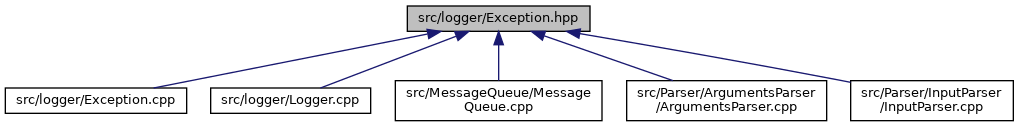
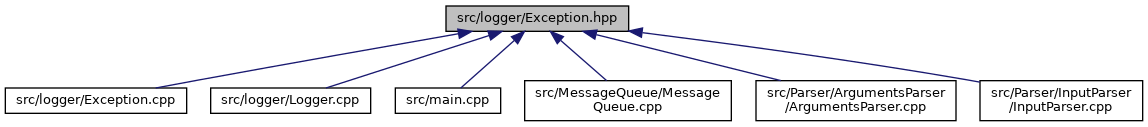
Deploying to gh-pages from @ Cavonstavant/PLAZAAAAAAAAAAAAAAAAAAAAAAA@f2cbfda0a3b28097e5984dd33de7640b9279c598 🚀

diff --git a/main_8cpp_source.html b/main_8cpp_source.html
@@ -95,31 +95,39 @@ $(document).ready(function(){initNavTree('main_8cpp_source.html',''); initResiza
 <div class="line"><a name="l00006"></a><span class="lineno">    6</span>&#160;<span class="comment">*/</span></div>
 <div class="line"><a name="l00007"></a><span class="lineno">    7</span>&#160; </div>
 <div class="line"><a name="l00008"></a><span class="lineno">    8</span>&#160;<span class="preprocessor">#include &quot;<a class="code" href="_arguments_parser_8hpp.html">ArgumentsParser.hpp</a>&quot;</span></div>
-<div class="line"><a name="l00009"></a><span class="lineno">    9</span>&#160;<span class="preprocessor">#include &quot;<a class="code" href="_message_queue_8hpp.html">MessageQueue/MessageQueue.hpp</a>&quot;</span></div>
-<div class="line"><a name="l00010"></a><span class="lineno">   10</span>&#160;<span class="preprocessor">#include &quot;<a class="code" href="_plazza_8hpp.html">Plazza.hpp</a>&quot;</span></div>
-<div class="line"><a name="l00011"></a><span class="lineno">   11</span>&#160;<span class="preprocessor">#include &lt;iostream&gt;</span></div>
-<div class="line"><a name="l00012"></a><span class="lineno">   12</span>&#160;<span class="preprocessor">#include &lt;string&gt;</span></div>
-<div class="line"><a name="l00013"></a><span class="lineno">   13</span>&#160; </div>
-<div class="line"><a name="l00014"></a><span class="lineno"><a class="line" href="main_8cpp.html#a0c99d968a34e803d378692bde2e3f18f">   14</a></span>&#160;<span class="keywordtype">int</span> <a class="code" href="main_8cpp.html#a0c99d968a34e803d378692bde2e3f18f">main</a>(<span class="keywordtype">int</span> ac, <span class="keywordtype">char</span> **av)</div>
-<div class="line"><a name="l00015"></a><span class="lineno">   15</span>&#160;{</div>
-<div class="line"><a name="l00016"></a><span class="lineno">   16</span>&#160;    <a class="code" href="classplazza_1_1_arguments_parser.html">plazza::ArgumentsParser</a> args(ac - 1, av + 1);</div>
-<div class="line"><a name="l00017"></a><span class="lineno">   17</span>&#160; </div>
-<div class="line"><a name="l00018"></a><span class="lineno">   18</span>&#160;    args.<a class="code" href="classplazza_1_1_arguments_parser.html#ab4f7c6395927475327259187040f270d">processArguments</a>();</div>
-<div class="line"><a name="l00019"></a><span class="lineno">   19</span>&#160; </div>
-<div class="line"><a name="l00020"></a><span class="lineno">   20</span>&#160;    <a class="code" href="classplazza_1_1_core.html">plazza::Core</a> core(args.<a class="code" href="classplazza_1_1_arguments_parser.html#a4ffecd21d310576b3867d019b05c016d">getCookingTime</a>(), args.<a class="code" href="classplazza_1_1_arguments_parser.html#a526753b1dddd60803ef79ea0b1505dfc">getCookNumber</a>(), args.<a class="code" href="classplazza_1_1_arguments_parser.html#aeca612329e37ab2947f8a29fd8032e21">getRefillTime</a>());</div>
-<div class="line"><a name="l00021"></a><span class="lineno">   21</span>&#160; </div>
-<div class="line"><a name="l00022"></a><span class="lineno">   22</span>&#160;    core.<a class="code" href="classplazza_1_1_core.html#adcc93b561dfefacfe2bcbd60604ea7a6">run</a>();</div>
-<div class="line"><a name="l00023"></a><span class="lineno">   23</span>&#160; </div>
-<div class="line"><a name="l00024"></a><span class="lineno">   24</span>&#160;    <span class="keywordflow">return</span> 0;</div>
-<div class="line"><a name="l00025"></a><span class="lineno">   25</span>&#160;}</div>
+<div class="line"><a name="l00009"></a><span class="lineno">    9</span>&#160;<span class="preprocessor">#include &quot;<a class="code" href="_exception_8hpp.html">Exception.hpp</a>&quot;</span></div>
+<div class="line"><a name="l00010"></a><span class="lineno">   10</span>&#160;<span class="preprocessor">#include &quot;<a class="code" href="_message_queue_8hpp.html">MessageQueue/MessageQueue.hpp</a>&quot;</span></div>
+<div class="line"><a name="l00011"></a><span class="lineno">   11</span>&#160;<span class="preprocessor">#include &quot;<a class="code" href="_plazza_8hpp.html">Plazza.hpp</a>&quot;</span></div>
+<div class="line"><a name="l00012"></a><span class="lineno">   12</span>&#160;<span class="preprocessor">#include &lt;iostream&gt;</span></div>
+<div class="line"><a name="l00013"></a><span class="lineno">   13</span>&#160;<span class="preprocessor">#include &lt;string&gt;</span></div>
+<div class="line"><a name="l00014"></a><span class="lineno">   14</span>&#160; </div>
+<div class="line"><a name="l00015"></a><span class="lineno"><a class="line" href="main_8cpp.html#a0c99d968a34e803d378692bde2e3f18f">   15</a></span>&#160;<span class="keywordtype">int</span> <a class="code" href="main_8cpp.html#a0c99d968a34e803d378692bde2e3f18f">main</a>(<span class="keywordtype">int</span> ac, <span class="keywordtype">char</span> **av)</div>
+<div class="line"><a name="l00016"></a><span class="lineno">   16</span>&#160;{</div>
+<div class="line"><a name="l00017"></a><span class="lineno">   17</span>&#160;    <a class="code" href="classplazza_1_1_arguments_parser.html">plazza::ArgumentsParser</a> args(ac - 1, av + 1);</div>
+<div class="line"><a name="l00018"></a><span class="lineno">   18</span>&#160; </div>
+<div class="line"><a name="l00019"></a><span class="lineno">   19</span>&#160;    <span class="keywordflow">try</span> {</div>
+<div class="line"><a name="l00020"></a><span class="lineno">   20</span>&#160;        args.<a class="code" href="classplazza_1_1_arguments_parser.html#ab4f7c6395927475327259187040f270d">processArguments</a>();</div>
+<div class="line"><a name="l00021"></a><span class="lineno">   21</span>&#160;    } <span class="keywordflow">catch</span> (<span class="keyword">const</span> <a class="code" href="class_plazza_exception.html">PlazzaException</a> &amp;exc) {</div>
+<div class="line"><a name="l00022"></a><span class="lineno">   22</span>&#160;        std::cerr &lt;&lt; exc.<a class="code" href="class_plazza_exception.html#af42078485825da6b030af687e5990044">what</a>() &lt;&lt; std::endl;</div>
+<div class="line"><a name="l00023"></a><span class="lineno">   23</span>&#160;        <span class="keywordflow">return</span> 84;</div>
+<div class="line"><a name="l00024"></a><span class="lineno">   24</span>&#160;    }</div>
+<div class="line"><a name="l00025"></a><span class="lineno">   25</span>&#160;    <a class="code" href="classplazza_1_1_core.html">plazza::Core</a> core(args.<a class="code" href="classplazza_1_1_arguments_parser.html#a4ffecd21d310576b3867d019b05c016d">getCookingTime</a>(), args.<a class="code" href="classplazza_1_1_arguments_parser.html#a526753b1dddd60803ef79ea0b1505dfc">getCookNumber</a>(), args.<a class="code" href="classplazza_1_1_arguments_parser.html#aeca612329e37ab2947f8a29fd8032e21">getRefillTime</a>());</div>
+<div class="line"><a name="l00026"></a><span class="lineno">   26</span>&#160; </div>
+<div class="line"><a name="l00027"></a><span class="lineno">   27</span>&#160;    core.<a class="code" href="classplazza_1_1_core.html#adcc93b561dfefacfe2bcbd60604ea7a6">run</a>();</div>
+<div class="line"><a name="l00028"></a><span class="lineno">   28</span>&#160; </div>
+<div class="line"><a name="l00029"></a><span class="lineno">   29</span>&#160;    <span class="keywordflow">return</span> 0;</div>
+<div class="line"><a name="l00030"></a><span class="lineno">   30</span>&#160;}</div>
 </div><!-- fragment --></div><!-- contents -->
 </div><!-- doc-content -->
 <div class="ttc" id="a_plazza_8hpp_html"><div class="ttname"><a href="_plazza_8hpp.html">Plazza.hpp</a></div></div>
 <div class="ttc" id="aclassplazza_1_1_arguments_parser_html_aeca612329e37ab2947f8a29fd8032e21"><div class="ttname"><a href="classplazza_1_1_arguments_parser.html#aeca612329e37ab2947f8a29fd8032e21">plazza::ArgumentsParser::getRefillTime</a></div><div class="ttdeci">const size_t &amp; getRefillTime(void) const</div><div class="ttdoc">Get the time to refill the fridge for the Plazza.</div><div class="ttdef"><b>Definition:</b> <a href="_arguments_parser_8hpp_source.html#l00041">ArgumentsParser.hpp:41</a></div></div>
+<div class="ttc" id="aclass_plazza_exception_html"><div class="ttname"><a href="class_plazza_exception.html">PlazzaException</a></div><div class="ttdoc">Base exception class for all exceptions in the project.</div><div class="ttdef"><b>Definition:</b> <a href="_exception_8hpp_source.html#l00046">Exception.hpp:46</a></div></div>
+<div class="ttc" id="a_exception_8hpp_html"><div class="ttname"><a href="_exception_8hpp.html">Exception.hpp</a></div></div>
 <div class="ttc" id="aclassplazza_1_1_arguments_parser_html_a526753b1dddd60803ef79ea0b1505dfc"><div class="ttname"><a href="classplazza_1_1_arguments_parser.html#a526753b1dddd60803ef79ea0b1505dfc">plazza::ArgumentsParser::getCookNumber</a></div><div class="ttdeci">const size_t &amp; getCookNumber(void) const</div><div class="ttdoc">Get the cooking Time for the Plazza.</div><div class="ttdef"><b>Definition:</b> <a href="_arguments_parser_8hpp_source.html#l00035">ArgumentsParser.hpp:35</a></div></div>
 <div class="ttc" id="aclassplazza_1_1_core_html_adcc93b561dfefacfe2bcbd60604ea7a6"><div class="ttname"><a href="classplazza_1_1_core.html#adcc93b561dfefacfe2bcbd60604ea7a6">plazza::Core::run</a></div><div class="ttdeci">void run()</div><div class="ttdoc">Main function of the program.</div><div class="ttdef"><b>Definition:</b> <a href="_plazza_8cpp_source.html#l00021">Plazza.cpp:21</a></div></div>
+<div class="ttc" id="aclass_plazza_exception_html_af42078485825da6b030af687e5990044"><div class="ttname"><a href="class_plazza_exception.html#af42078485825da6b030af687e5990044">PlazzaException::what</a></div><div class="ttdeci">const char * what() const noexcept override</div><div class="ttdoc">returns the description of the exception</div><div class="ttdef"><b>Definition:</b> <a href="_exception_8cpp_source.html#l00027">Exception.cpp:27</a></div></div>
 <div class="ttc" id="aclassplazza_1_1_core_html"><div class="ttname"><a href="classplazza_1_1_core.html">plazza::Core</a></div><div class="ttdoc">Core Class containing the main loop of the program.</div><div class="ttdef"><b>Definition:</b> <a href="_plazza_8hpp_source.html#l00017">Plazza.hpp:17</a></div></div>
-<div class="ttc" id="amain_8cpp_html_a0c99d968a34e803d378692bde2e3f18f"><div class="ttname"><a href="main_8cpp.html#a0c99d968a34e803d378692bde2e3f18f">main</a></div><div class="ttdeci">int main(int ac, char **av)</div><div class="ttdef"><b>Definition:</b> <a href="main_8cpp_source.html#l00014">main.cpp:14</a></div></div>
+<div class="ttc" id="amain_8cpp_html_a0c99d968a34e803d378692bde2e3f18f"><div class="ttname"><a href="main_8cpp.html#a0c99d968a34e803d378692bde2e3f18f">main</a></div><div class="ttdeci">int main(int ac, char **av)</div><div class="ttdef"><b>Definition:</b> <a href="main_8cpp_source.html#l00015">main.cpp:15</a></div></div>
 <div class="ttc" id="aclassplazza_1_1_arguments_parser_html_ab4f7c6395927475327259187040f270d"><div class="ttname"><a href="classplazza_1_1_arguments_parser.html#ab4f7c6395927475327259187040f270d">plazza::ArgumentsParser::processArguments</a></div><div class="ttdeci">void processArguments()</div><div class="ttdoc">Process the arguments given in the char ** (transfers to the inherited member _arguments) by the cons...</div><div class="ttdef"><b>Definition:</b> <a href="_arguments_parser_8cpp_source.html#l00025">ArgumentsParser.cpp:25</a></div></div>
 <div class="ttc" id="aclassplazza_1_1_arguments_parser_html"><div class="ttname"><a href="classplazza_1_1_arguments_parser.html">plazza::ArgumentsParser</a></div><div class="ttdoc">ArgumentsParser class define functions for parsing received arguments.</div><div class="ttdef"><b>Definition:</b> <a href="_arguments_parser_8hpp_source.html#l00017">ArgumentsParser.hpp:17</a></div></div>
 <div class="ttc" id="aclassplazza_1_1_arguments_parser_html_a4ffecd21d310576b3867d019b05c016d"><div class="ttname"><a href="classplazza_1_1_arguments_parser.html#a4ffecd21d310576b3867d019b05c016d">plazza::ArgumentsParser::getCookingTime</a></div><div class="ttdeci">const size_t &amp; getCookingTime(void) const</div><div class="ttdoc">Get the cooking Time for the Plazza.</div><div class="ttdef"><b>Definition:</b> <a href="_arguments_parser_8hpp_source.html#l00029">ArgumentsParser.hpp:29</a></div></div>

diff --git a/main_8cpp.html b/main_8cpp.html
@@ -90,6 +90,7 @@ $(document).ready(function(){initNavTree('main_8cpp.html',''); initResizable(); 
 </div><!--header-->
 <div class="contents">
 <div class="textblock"><code>#include &quot;<a class="el" href="_arguments_parser_8hpp_source.html">ArgumentsParser.hpp</a>&quot;</code><br />
+<code>#include &quot;<a class="el" href="_exception_8hpp_source.html">Exception.hpp</a>&quot;</code><br />
 <code>#include &quot;<a class="el" href="_message_queue_8hpp_source.html">MessageQueue/MessageQueue.hpp</a>&quot;</code><br />
 <code>#include &quot;<a class="el" href="_plazza_8hpp_source.html">Plazza.hpp</a>&quot;</code><br />
 <code>#include &lt;iostream&gt;</code><br />
@@ -99,17 +100,20 @@ Include dependency graph for main.cpp:</div>
 <div class="dyncontent">
 <div class="center"><img src="main_8cpp__incl.png" border="0" usemap="#src_2main_8cpp" alt=""/></div>
 <map name="src_2main_8cpp" id="src_2main_8cpp">
-<area shape="rect" title=" " alt="" coords="315,5,421,32"/>
+<area shape="rect" title=" " alt="" coords="375,5,481,32"/>
 <area shape="rect" href="_arguments_parser_8hpp.html" title=" " alt="" coords="5,80,165,107"/>
-<area shape="rect" title=" " alt="" coords="173,304,232,331"/>
-<area shape="rect" href="_message_queue_8hpp.html" title=" " alt="" coords="241,80,495,107"/>
-<area shape="rect" href="_plazza_8hpp.html" title=" " alt="" coords="519,80,611,107"/>
-<area shape="rect" title=" " alt="" coords="636,80,716,107"/>
+<area shape="rect" title=" " alt="" coords="199,304,257,331"/>
+<area shape="rect" href="_exception_8hpp.html" title=" " alt="" coords="267,80,381,107"/>
+<area shape="rect" href="_message_queue_8hpp.html" title=" " alt="" coords="406,80,661,107"/>
+<area shape="rect" href="_plazza_8hpp.html" title=" " alt="" coords="685,80,777,107"/>
+<area shape="rect" title=" " alt="" coords="801,80,881,107"/>
 <area shape="rect" href="_a_parser_8hpp.html" title=" " alt="" coords="52,155,151,181"/>
-<area shape="rect" href="_i_parser_8hpp.html" title=" " alt="" coords="63,229,156,256"/>
-<area shape="rect" title=" " alt="" coords="78,304,141,331"/>
-<area shape="rect" title=" " alt="" coords="325,155,411,181"/>
-<area shape="rect" title=" " alt="" coords="530,155,601,181"/>
+<area shape="rect" href="_i_parser_8hpp.html" title=" " alt="" coords="72,229,165,256"/>
+<area shape="rect" title=" " alt="" coords="87,304,150,331"/>
+<area shape="rect" href="_logger_8hpp.html" title=" " alt="" coords="291,155,384,181"/>
+<area shape="rect" title=" " alt="" coords="409,155,495,181"/>
+<area shape="rect" title=" " alt="" coords="571,155,658,181"/>
+<area shape="rect" title=" " alt="" coords="695,155,766,181"/>
 </map>
 </div>
 </div>
@@ -147,23 +151,29 @@ Functions</h2></td></tr>
       </table>
 </div><div class="memdoc">
 
-<p class="definition">Definition at line <a class="el" href="main_8cpp_source.html#l00014">14</a> of file <a class="el" href="main_8cpp_source.html">main.cpp</a>.</p>
-<div class="fragment"><div class="line"><a name="l00015"></a><span class="lineno">   15</span>&#160;{</div>
-<div class="line"><a name="l00016"></a><span class="lineno">   16</span>&#160;    <a class="code" href="classplazza_1_1_arguments_parser.html">plazza::ArgumentsParser</a> args(ac - 1, av + 1);</div>
-<div class="line"><a name="l00017"></a><span class="lineno">   17</span>&#160; </div>
-<div class="line"><a name="l00018"></a><span class="lineno">   18</span>&#160;    args.processArguments();</div>
-<div class="line"><a name="l00019"></a><span class="lineno">   19</span>&#160; </div>
-<div class="line"><a name="l00020"></a><span class="lineno">   20</span>&#160;    <a class="code" href="classplazza_1_1_core.html">plazza::Core</a> core(args.getCookingTime(), args.getCookNumber(), args.getRefillTime());</div>
-<div class="line"><a name="l00021"></a><span class="lineno">   21</span>&#160; </div>
-<div class="line"><a name="l00022"></a><span class="lineno">   22</span>&#160;    core.run();</div>
-<div class="line"><a name="l00023"></a><span class="lineno">   23</span>&#160; </div>
-<div class="line"><a name="l00024"></a><span class="lineno">   24</span>&#160;    <span class="keywordflow">return</span> 0;</div>
-<div class="line"><a name="l00025"></a><span class="lineno">   25</span>&#160;}</div>
+<p class="definition">Definition at line <a class="el" href="main_8cpp_source.html#l00015">15</a> of file <a class="el" href="main_8cpp_source.html">main.cpp</a>.</p>
+<div class="fragment"><div class="line"><a name="l00016"></a><span class="lineno">   16</span>&#160;{</div>
+<div class="line"><a name="l00017"></a><span class="lineno">   17</span>&#160;    <a class="code" href="classplazza_1_1_arguments_parser.html">plazza::ArgumentsParser</a> args(ac - 1, av + 1);</div>
+<div class="line"><a name="l00018"></a><span class="lineno">   18</span>&#160; </div>
+<div class="line"><a name="l00019"></a><span class="lineno">   19</span>&#160;    <span class="keywordflow">try</span> {</div>
+<div class="line"><a name="l00020"></a><span class="lineno">   20</span>&#160;        args.processArguments();</div>
+<div class="line"><a name="l00021"></a><span class="lineno">   21</span>&#160;    } <span class="keywordflow">catch</span> (<span class="keyword">const</span> <a class="code" href="class_plazza_exception.html">PlazzaException</a> &amp;exc) {</div>
+<div class="line"><a name="l00022"></a><span class="lineno">   22</span>&#160;        std::cerr &lt;&lt; exc.<a class="code" href="class_plazza_exception.html#af42078485825da6b030af687e5990044">what</a>() &lt;&lt; std::endl;</div>
+<div class="line"><a name="l00023"></a><span class="lineno">   23</span>&#160;        <span class="keywordflow">return</span> 84;</div>
+<div class="line"><a name="l00024"></a><span class="lineno">   24</span>&#160;    }</div>
+<div class="line"><a name="l00025"></a><span class="lineno">   25</span>&#160;    <a class="code" href="classplazza_1_1_core.html">plazza::Core</a> core(args.getCookingTime(), args.getCookNumber(), args.getRefillTime());</div>
+<div class="line"><a name="l00026"></a><span class="lineno">   26</span>&#160; </div>
+<div class="line"><a name="l00027"></a><span class="lineno">   27</span>&#160;    core.run();</div>
+<div class="line"><a name="l00028"></a><span class="lineno">   28</span>&#160; </div>
+<div class="line"><a name="l00029"></a><span class="lineno">   29</span>&#160;    <span class="keywordflow">return</span> 0;</div>
+<div class="line"><a name="l00030"></a><span class="lineno">   30</span>&#160;}</div>
 </div><!-- fragment -->
 </div>
 </div>
 </div><!-- contents -->
 </div><!-- doc-content -->
+<div class="ttc" id="aclass_plazza_exception_html"><div class="ttname"><a href="class_plazza_exception.html">PlazzaException</a></div><div class="ttdoc">Base exception class for all exceptions in the project.</div><div class="ttdef"><b>Definition:</b> <a href="_exception_8hpp_source.html#l00046">Exception.hpp:46</a></div></div>
+<div class="ttc" id="aclass_plazza_exception_html_af42078485825da6b030af687e5990044"><div class="ttname"><a href="class_plazza_exception.html#af42078485825da6b030af687e5990044">PlazzaException::what</a></div><div class="ttdeci">const char * what() const noexcept override</div><div class="ttdoc">returns the description of the exception</div><div class="ttdef"><b>Definition:</b> <a href="_exception_8cpp_source.html#l00027">Exception.cpp:27</a></div></div>
 <div class="ttc" id="aclassplazza_1_1_core_html"><div class="ttname"><a href="classplazza_1_1_core.html">plazza::Core</a></div><div class="ttdoc">Core Class containing the main loop of the program.</div><div class="ttdef"><b>Definition:</b> <a href="_plazza_8hpp_source.html#l00017">Plazza.hpp:17</a></div></div>
 <div class="ttc" id="aclassplazza_1_1_arguments_parser_html"><div class="ttname"><a href="classplazza_1_1_arguments_parser.html">plazza::ArgumentsParser</a></div><div class="ttdoc">ArgumentsParser class define functions for parsing received arguments.</div><div class="ttdef"><b>Definition:</b> <a href="_arguments_parser_8hpp_source.html#l00017">ArgumentsParser.hpp:17</a></div></div>
 <!-- start footer part -->

diff --git a/_logger_8hpp.html b/_logger_8hpp.html
@@ -94,13 +94,14 @@ This graph shows which files directly or indirectly include this file:</div>
 <div class="dyncontent">
 <div class="center"><img src="_logger_8hpp__dep__incl.png" border="0" usemap="#src_2logger_2_logger_8hppdep" alt=""/></div>
 <map name="src_2logger_2_logger_8hppdep" id="src_2logger_2_logger_8hppdep">
-<area shape="rect" title=" " alt="" coords="287,5,449,32"/>
-<area shape="rect" href="_exception_8hpp.html" title=" " alt="" coords="370,80,553,107"/>
+<area shape="rect" title=" " alt="" coords="302,5,463,32"/>
+<area shape="rect" href="_exception_8hpp.html" title=" " alt="" coords="357,80,539,107"/>
 <area shape="rect" href="_exception_8cpp.html" title=" " alt="" coords="5,162,187,189"/>
 <area shape="rect" href="_logger_8cpp.html" title=" " alt="" coords="211,162,371,189"/>
-<area shape="rect" href="_message_queue_8cpp.html" title=" " alt="" coords="806,155,1013,196"/>
-<area shape="rect" href="_arguments_parser_8cpp.html" title=" " alt="" coords="581,155,781,196"/>
-<area shape="rect" href="_input_parser_8cpp.html" title=" " alt="" coords="395,155,557,196"/>
+<area shape="rect" href="_message_queue_8cpp.html" title=" " alt="" coords="935,155,1142,196"/>
+<area shape="rect" href="main_8cpp.html" title=" " alt="" coords="395,162,501,189"/>
+<area shape="rect" href="_arguments_parser_8cpp.html" title=" " alt="" coords="524,155,724,196"/>
+<area shape="rect" href="_input_parser_8cpp.html" title=" " alt="" coords="748,155,911,196"/>
 </map>
 </div>
 </div>

diff --git a/_exception_8hpp.html b/_exception_8hpp.html
@@ -109,12 +109,13 @@ This graph shows which files directly or indirectly include this file:</div>
 <div class="dyncontent">
 <div class="center"><img src="_exception_8hpp__dep__incl.png" border="0" usemap="#src_2logger_2_exception_8hppdep" alt=""/></div>
 <map name="src_2logger_2_exception_8hppdep" id="src_2logger_2_exception_8hppdep">
-<area shape="rect" title=" " alt="" coords="407,5,590,32"/>
+<area shape="rect" title=" " alt="" coords="446,5,629,32"/>
 <area shape="rect" href="_exception_8cpp.html" title=" " alt="" coords="5,87,187,114"/>
 <area shape="rect" href="_logger_8cpp.html" title=" " alt="" coords="211,87,371,114"/>
-<area shape="rect" href="_message_queue_8cpp.html" title=" " alt="" coords="395,80,602,121"/>
-<area shape="rect" href="_arguments_parser_8cpp.html" title=" " alt="" coords="627,80,827,121"/>
-<area shape="rect" href="_input_parser_8cpp.html" title=" " alt="" coords="851,80,1013,121"/>
+<area shape="rect" href="main_8cpp.html" title=" " alt="" coords="395,87,501,114"/>
+<area shape="rect" href="_message_queue_8cpp.html" title=" " alt="" coords="525,80,731,121"/>
+<area shape="rect" href="_arguments_parser_8cpp.html" title=" " alt="" coords="756,80,956,121"/>
+<area shape="rect" href="_input_parser_8cpp.html" title=" " alt="" coords="980,80,1143,121"/>
 </map>
 </div>
 </div>
